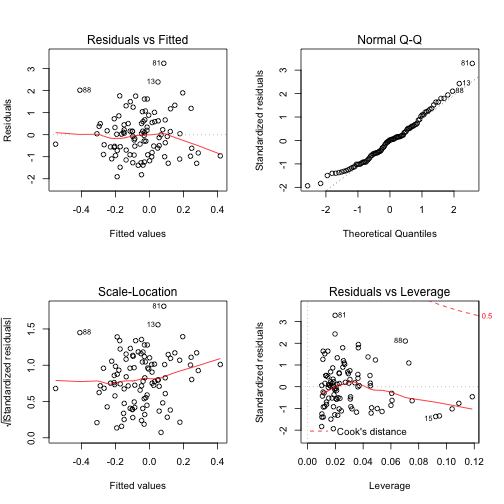
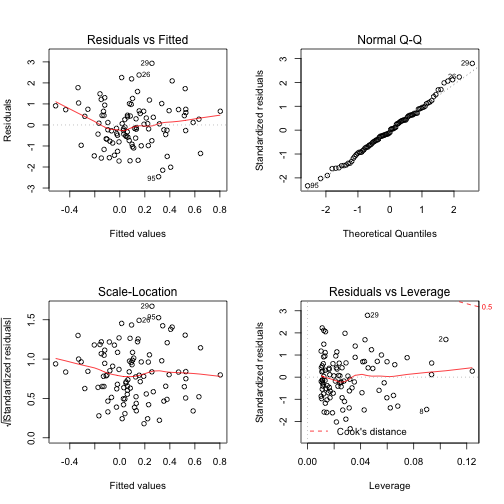
updated 06

diff --git a/intermediate/06_Misc.html b/intermediate/06_Misc.html
@@ -97,7 +97,12 @@ right_now
 ```
 
 ```
-## [1] "2017-11-13 18:50:17 MST"
+## Warning in as.POSIXlt.POSIXct(x, tz): unknown timezone 'zone/tz/2017c.1.0/
+## zoneinfo/America/Denver'
+```
+
+```
+## [1] "2017-12-12 06:57:18 GMT"
 ```
 
 ```r
@@ -105,7 +110,7 @@ str(right_now)
 ```
 
 ```
-##  POSIXct[1:1], format: "2017-11-13 18:50:17"
+##  POSIXct[1:1], format: "2017-12-12 06:57:18"
 ```
 
 .pull-left[
@@ -123,7 +128,7 @@ month(right_now)
 ```
 
 ```
-## [1] 11
+## [1] 12
 ```
 
 ```r
@@ -131,7 +136,7 @@ day(right_now)
 ```
 
 ```
-## [1] 13
+## [1] 12
 ```
 ]
 
@@ -144,7 +149,7 @@ hour(right_now)
 ```
 
 ```
-## [1] 18
+## [1] 6
 ```
 
 ```r
@@ -152,7 +157,7 @@ minute(right_now)
 ```
 
 ```
-## [1] 50
+## [1] 57
 ```
 
 ```r
@@ -160,7 +165,7 @@ second(right_now)
 ```
 
 ```
-## [1] 17.73281
+## [1] 18.01454
 ```
 ]
 
@@ -251,7 +256,7 @@ last - first
 ```
 
 ```
-## Time difference of 2537 days
+## Time difference of 2566 days
 ```
 
 ```r
@@ -261,7 +266,7 @@ last - first
 ```
 
 ```
-## Time difference of 2537.527 days
+## Time difference of 2565.741 days
 ```
 
 
@@ -289,15 +294,15 @@ df
 
 ```
 ##     X          Y   Z
-## 1   0  0.8325817 999
-## 2  NA  1.1079543   1
-## 3   1 -1.0678075   2
-## 4  NA  0.8795559   1
-## 5   0  2.4656444   2
-## 6   1  1.0186229   1
-## 7   1 -1.1372487   2
-## 8   0  0.4730306   1
-## 9   0  1.4433133   2
+## 1   0 -0.9401621 999
+## 2  NA  0.1445659   1
+## 3   1 -0.3256783   2
+## 4  NA -0.7332431   1
+## 5   0 -0.9053486   2
+## 6   1  0.3307868   1
+## 7   1 -1.0477708   2
+## 8   0 -0.1253498   1
+## 9   0 -0.3207349   2
 ## 10  0        NaN   1
 ```
 ]
@@ -315,15 +320,15 @@ df %&gt;%
 
 ```
 ##    X          Y  Z
-## 1  0  0.8325817 NA
-## 2  0  1.1079543  1
-## 3  1 -1.0678075  2
-## 4  0  0.8795559  1
-## 5  0  2.4656444  2
-## 6  1  1.0186229  1
-## 7  1 -1.1372487  2
-## 8  0  0.4730306  1
-## 9  0  1.4433133  2
+## 1  0 -0.9401621 NA
+## 2  0  0.1445659  1
+## 3  1 -0.3256783  2
+## 4  0 -0.7332431  1
+## 5  0 -0.9053486  2
+## 6  1  0.3307868  1
+## 7  1 -1.0477708  2
+## 8  0 -0.1253498  1
+## 9  0 -0.3207349  2
 ## 10 0         NA  1
 ```
 ]
@@ -370,13 +375,13 @@ tail(df)
 ```
 
 ```
-##              x           y
-## 95   2.2147854 -0.36890323
-## 96   1.7592695  0.56757306
-## 97  -0.9172566 -0.99154239
-## 98   0.3025008 -0.08580363
-## 99   1.0148986  0.32993789
-## 100        NaN         NaN
+##               x          y
+## 95  -0.20574815 -2.1522782
+## 96  -2.43808523  0.7050387
+## 97  -0.01381921  0.2844850
+## 98  -0.89939807  1.2026412
+## 99   0.04742223 -0.9346388
+## 100         NaN        NaN
 ```
 ]
 
@@ -393,13 +398,13 @@ tail(df2)
 ```
 
 ```
-##              x           y
-## 95   2.2147854 -0.36890323
-## 96   1.7592695  0.56757306
-## 97  -0.9172566 -0.99154239
-## 98   0.3025008 -0.08580363
-## 99   1.0148986  0.32993789
-## 100         NA          NA
+##               x          y
+## 95  -0.20574815 -2.1522782
+## 96  -2.43808523  0.7050387
+## 97  -0.01381921  0.2844850
+## 98  -0.89939807  1.2026412
+## 99   0.04742223 -0.9346388
+## 100          NA         NA
 ```
 ]
 
@@ -450,8 +455,8 @@ class: inverse, middle, center
 ---
 # Modeling
 
-<div id="htmlwidget-aa2f07e7e68d7b18bafb" style="width:100%;height:auto;" class="datatables html-widget"></div>
-<script type="application/json" data-for="htmlwidget-aa2f07e7e68d7b18bafb">{"x":{"filter":"none","data":[["1","2","3","4","5","6","7","8","9","10"],["base","base","lavaan","lavaan","car","car","sandwich","lme4","lmerTest","geepack"],["lm","glm","cfa","sem","linearHypothesis","Anova","sandwich","lmer","lmer","geeglm"]],"container":"<table class=\"display\">\n  <thead>\n    <tr>\n      <th> <\/th>\n      <th>Package<\/th>\n      <th>Function<\/th>\n    <\/tr>\n  <\/thead>\n<\/table>","options":{"dom":"t","order":[],"autoWidth":false,"orderClasses":false,"columnDefs":[{"orderable":false,"targets":0}]}},"evals":[],"jsHooks":[]}</script>
+<div id="htmlwidget-1c5715fa81289de519fe" style="width:100%;height:auto;" class="datatables html-widget"></div>
+<script type="application/json" data-for="htmlwidget-1c5715fa81289de519fe">{"x":{"filter":"none","data":[["1","2","3","4","5","6","7","8","9","10"],["base","base","lavaan","lavaan","car","car","sandwich","lme4","lmerTest","geepack"],["lm","glm","cfa","sem","linearHypothesis","Anova","sandwich","lmer","lmer","geeglm"]],"container":"<table class=\"display\">\n  <thead>\n    <tr>\n      <th> <\/th>\n      <th>Package<\/th>\n      <th>Function<\/th>\n    <\/tr>\n  <\/thead>\n<\/table>","options":{"dom":"t","order":[],"autoWidth":false,"orderClasses":false,"columnDefs":[{"orderable":false,"targets":0}]}},"evals":[],"jsHooks":[]}</script>
 
 ---
 # Modeling
@@ -513,7 +518,7 @@ semTools::measurementInvariance(fit)
 
 #### Linearity
 
-Check plots.
+Check scatterplots.
 .pull-left[
 
 ```r
@@ -531,6 +536,121 @@ qplot(x = x, y = y, data = df2)
 
 ![](06_Misc_files/figure-html/unnamed-chunk-22-1.png)&lt;!-- --&gt;
 ]
+
+---
+# Modeling Post Hoc Comparisons
+
+.large[Sometimes post hoc comparisons are important]
+
+--
+
+
+```r
+library(tidyverse)
+df3 = data_frame(
+  x   = sample(1:4, replace=TRUE, size = 100),
+  grp = rbinom(100, 1, .5),
+  y   = x + grp + x * grp + rnorm(100)
+) %&gt;%
+  mutate(x   = factor(x),
+         grp = factor(grp))
+```
+
+
+```r
+fit3 = aov(y ~ x * grp, data = df3)
+summary(fit3)
+```
+
+```
+##             Df Sum Sq Mean Sq F value   Pr(&gt;F)    
+## x            3  294.1    98.0 100.129  &lt; 2e-16 ***
+## grp          1  404.1   404.1 412.829  &lt; 2e-16 ***
+## x:grp        3   18.7     6.2   6.374 0.000567 ***
+## Residuals   92   90.1     1.0                     
+## ---
+## Signif. codes:  0 '***' 0.001 '**' 0.01 '*' 0.05 '.' 0.1 ' ' 1
+```
+
+---
+
+
+```r
+TukeyHSD(fit3)
+```
+
+```
+##   Tukey multiple comparisons of means
+##     95% family-wise confidence level
+## 
+## Fit: aov(formula = y ~ x * grp, data = df3)
+## 
+## $x
+##          diff        lwr      upr     p adj
+## 2-1 1.7543474  0.9435341 2.565161 0.0000010
+## 3-1 3.8960421  3.1743318 4.617752 0.0000000
+## 4-1 4.3099385  3.5723540 5.047523 0.0000000
+## 3-2 2.1416946  1.3873940 2.895995 0.0000000
+## 4-2 2.5555910  1.7860882 3.325094 0.0000000
+## 4-3 0.4138964 -0.2610717 1.088864 0.3811756
+## 
+## $grp
+##         diff      lwr      upr p adj
+## 1-0 3.999622 3.605346 4.393897     0
+## 
+## $`x:grp`
+##                 diff        lwr      upr     p adj
+## 2:0-1:0  0.754021152 -0.7055664 2.213609 0.7476855
+## 3:0-1:0  2.942591061  1.7140188 4.171163 0.0000000
+## 4:0-1:0  2.983789141  1.7764618 4.191116 0.0000000
+## 1:1-1:0  2.935917376  1.6218619 4.249973 0.0000000
+## 2:1-1:0  4.450841913  3.1979391 5.703745 0.0000000
+## 3:1-1:0  6.882964719  5.7392262 8.026703 0.0000000
+## 4:1-1:0  8.305103578  7.0977763 9.512431 0.0000000
+## 3:0-2:0  2.188569910  0.7498134 3.627326 0.0002212
+## 4:0-2:0  2.229767990  0.8091098 3.650426 0.0001228
+## 1:1-2:0  2.181896224  0.6694901 3.694302 0.0005604
+## 2:1-2:0  3.696820761  2.2372332 5.156408 0.0000000
+## 3:1-2:0  6.128943567  4.7619146 7.495973 0.0000000
+## 4:1-2:0  7.551082427  6.1304242 8.971741 0.0000000
+## 4:0-3:0  0.041198080 -1.1408610 1.223257 1.0000000
+## 1:1-3:0 -0.006673686 -1.2975518 1.284204 1.0000000
+## 2:1-3:0  1.508250852  0.2796786 2.736823 0.0059373
+## 3:1-3:0  3.940373658  2.8233409 5.057406 0.0000000
+## 4:1-3:0  5.362512517  4.1804534 6.544572 0.0000000
+## 1:1-4:0 -0.047871766 -1.3185471 1.222804 1.0000000
+## 2:1-4:0  1.467052771  0.2597255 2.674380 0.0067477
+## 3:1-4:0  3.899175577  2.8055524 4.992799 0.0000000
+## 4:1-4:0  5.321314437  4.1613519 6.481277 0.0000000
+## 2:1-1:1  1.514924537  0.2008690 2.828980 0.0125290
+## 3:1-1:1  3.947047343  2.7366283 5.157466 0.0000000
+## 4:1-1:1  5.369186203  4.0985109 6.639862 0.0000000
+## 3:1-2:1  2.432122806  1.2883843 3.575861 0.0000001
+## 4:1-2:1  3.854261666  2.6469344 5.061589 0.0000000
+## 4:1-3:1  1.422138860  0.3285157 2.515762 0.0027620
+```
+
+
+---
+# Modeling Post Hoc Comparisons
+
+
+```r
+library(effects)
+comps = effects::Effect(c("x","grp"), fit3)
+cbind(comps$x, comps$fit, comps$lower, comps$upper) %&gt;%
+  set_names(c("x", "grp", "est", "lower", "upper")) %&gt;%
+  ggplot(aes(x=x, y=est, group=grp, color=grp, fill=grp)) +
+    geom_line() +
+    geom_point() +
+    geom_errorbar(aes(ymin = lower, ymax = upper),
+                  width = .3)
+```
+
+---
+# Modeling Post Hoc Comparisons
+
+&lt;img src="06_Misc_files/figure-html/unnamed-chunk-27-1.png" style="display: block; margin: auto;" /&gt;
 
 ---
 # Modeling
